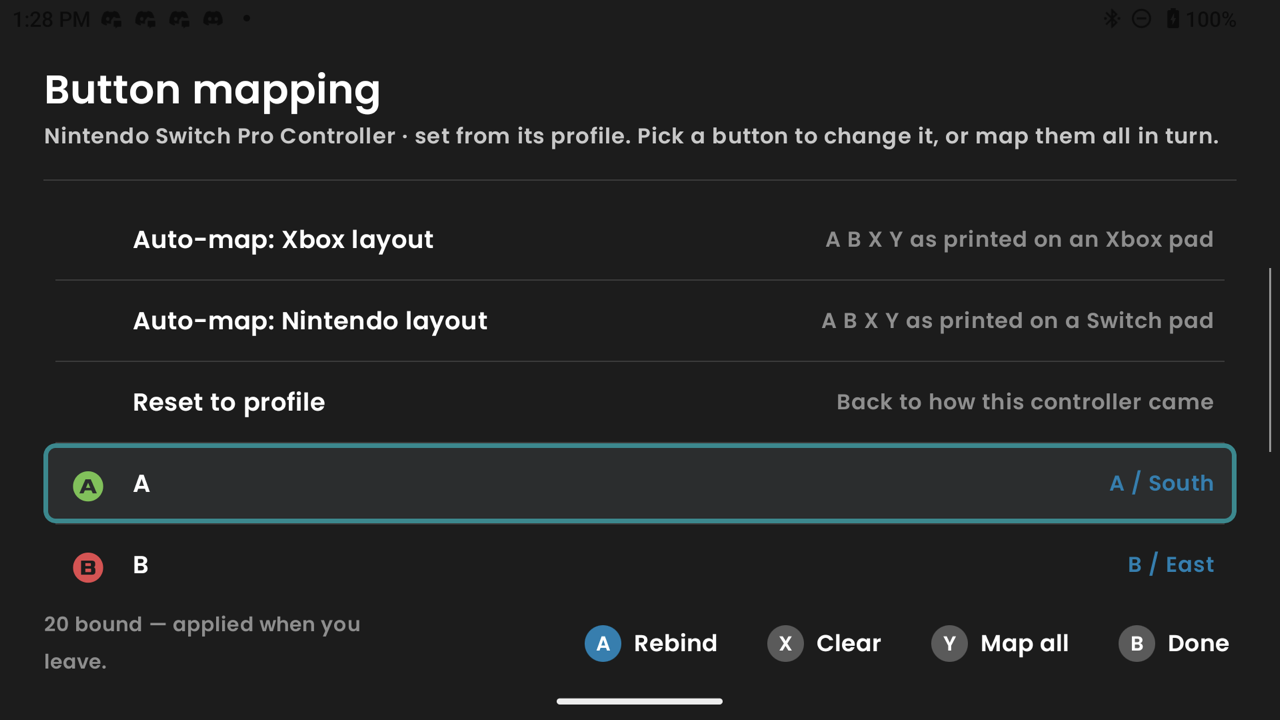
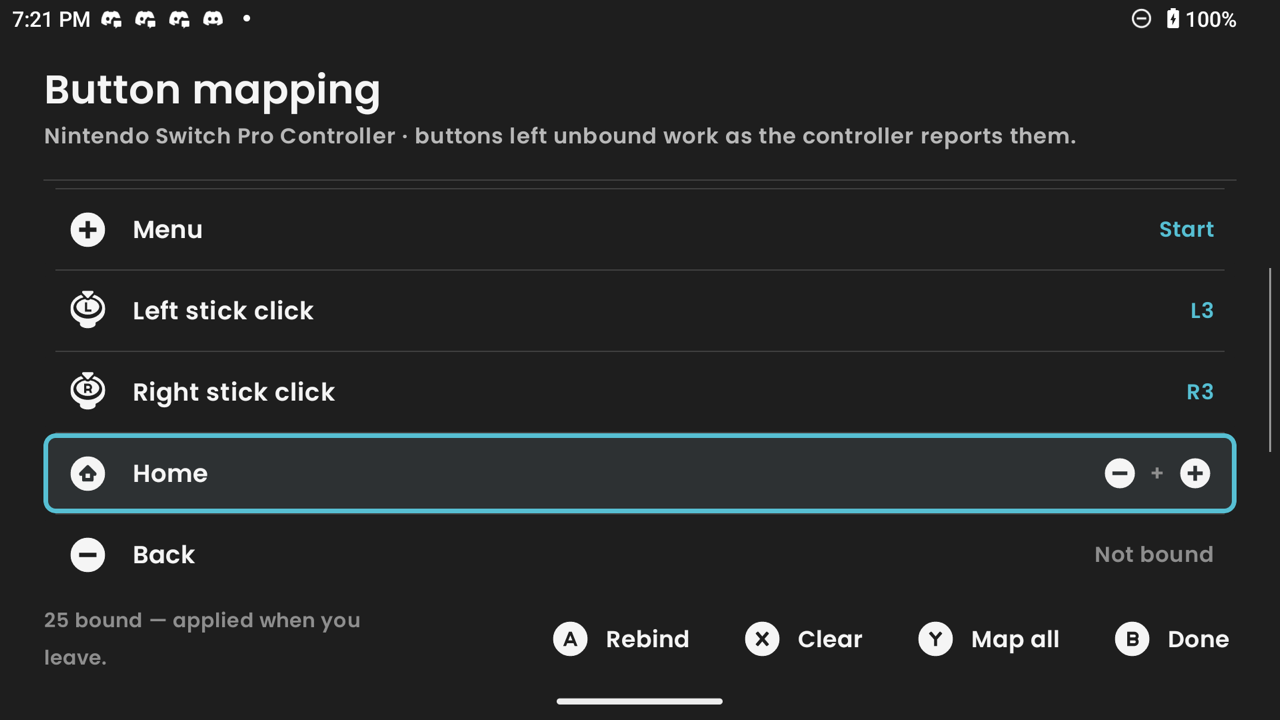
chore(release): v0.4.0
versionCode 6. README: new screenshots (Switch icons, a Home
combination, the chord capture, Light theme), a New in 0.4.0 list,
setup steps using the current menu names, e2e count 81 of 84, Kenney
credit.

diff --git a/README.md b/README.md
@@ -18,15 +18,33 @@ app, retargeted to the AYN Thor and renamed Control Switch.
 
 <img src="control-switch-ui.png" alt="Main screen: the Thor and its battery, the mirrored controller as player 1, and the four menu rows" width="820">
 
-<br><br>
-
-<img src="control-switch-ui-3.png" alt="Change Input Order: press L + R on the controller you would like to use" width="820">
-
-<br><br>
-
-<img src="control-switch-ui-2.png" alt="Button mapping: auto-map presets, then every button with a readable name" width="820">
+<table>
+<tr>
+<td><img src="control-switch-ui-3.png" alt="Change Input Order: press L + R on the controller you would like to use, then A"></td>
+<td><img src="control-switch-ui-2.png" alt="Button mapping in Switch icons, with Home bound to Minus + Plus held together"></td>
+</tr>
+<tr>
+<td align="center">Press <b>L + R</b> to pick player 1</td>
+<td align="center">Bind any button, or a combination</td>
+</tr>
+<tr>
+<td><img src="control-switch-ui-chord.png" alt="Binding a combination: the held buttons appear live as icons"></td>
+<td><img src="control-switch-ui-light.png" alt="Additional Settings in the Light theme"></td>
+</tr>
+<tr>
+<td align="center">Hold buttons together, then let go</td>
+<td align="center">Dark, Super dark or Light</td>
+</tr>
+</table>
 
 </div>
+
+## New in 0.4.0
+
+- **Button combinations** — bind Home, Back or any button to 2–4 controller buttons held together
+- **Themes** — Dark, Super dark and Light, with a teal focus outline you can follow from the couch
+- **Console-matched button prompts** — Xbox icons, or Switch icons once you pick the Nintendo layout
+- **New app icon**
 
 ## What it does
 
@@ -46,10 +64,14 @@ It runs without root, using a privileged service the stock firmware already ship
   that pad is mirrored, whenever it's connected. Identical pads are told apart while connected
 - **Home button that goes Home** — the external pad's Home/Guide button goes to the launcher, or
   Back, or passes through to games. Hold it for **Recents**
-- **Home and Back on any button** — bind either to a pad button in the mapping editor
+- **Home and Back on any button** — bind either to a pad button, or to a combination, in the
+  mapping editor
+- **Button combinations** — any button, Home and Back included, can be bound to 2–4 buttons held
+  together. Hold them, let go, done; the held buttons show as icons while you do it. When a
+  combination fires, its buttons don't also reach the game
 - **Select + Start** — hold it (3s) to close the current app
 - **Hides the external pad** while mirroring, so games see one controller instead of a phantom player 2
-- **Guided button mapping** — the app asks for each button in turn and you press it; or pick
+- **Guided button mapping** — press a button for each row, or let **Map all** walk the list; or pick
   **Nintendo** or **Xbox** layout to map in one go. Triggers and stick halves can fill button
   slots, and untouched controls keep working. Pads the bundled
   [SDL database](third-party/gamecontrollerdb/NOTICE.md) knows arrive already mapped, using the
@@ -58,11 +80,16 @@ It runs without root, using a privileged service the stock firmware already ship
 - **Nintendo layout aware** — swaps A/B and X/Y when the built-in pad is in its Nintendo profile
 - **Controller-first UI** — Switch-style screens with a button-hint bar; set it up without touching
   the screen
+- **Themes** — Dark, Super dark or Light, in Additional Settings
+- **Button prompts that match your pad** — Xbox Series icons by default, Nintendo Switch 2 icons
+  once you apply the Nintendo layout
 - **Add to home screen** — for game frontends like Cocoon Shell that hide the Android app list
 - **~0.04 ms of added latency** (median) — a fraction of one 60Hz frame
   ([measured](docs/TECHNICAL.md#latency); re-measured on a Thor, see [Building](#building))
 
 ## Install
+
+Updating from Control Switch 0.3.0? Just install over it; settings and mappings carry over.
 
 Coming from Docking Enhancer v0.2.0? Uninstall it first. The app id changed (now
 `com.controlswitch`), so the new version installs as a separate app instead of upgrading, and two
@@ -71,12 +98,11 @@ copies would fight over the controller. Settings don't carry over.
 1. Install the APK from this fork's [Releases](https://github.com/CardinalBird/docking-enhancer-Thor/releases)
    (allow "unknown sources" if prompted), or build it yourself — see [Building](#building).
    Upstream's releases don't include the Thor changes.
-2. Open it once. Check that the built-in controller ("Odin Controller" on the Thor) shows on the
-   left — tap it to fix it if not — then turn on **Automatic Mirror**, choose **Only when docked** or **Always when a controller is
-   connected**, and allow notifications.
+2. Open it once and allow notifications. Under **Additional Settings → Allow mirroring**, choose
+   **Only when docked** or **Always** (whenever a controller is connected).
 3. Pair a controller (and dock, if you chose docked only). It takes over on its own.
-4. Optional: with more than one pad, open **Player 1 controller** and press **L + R** on yours.
-   On a frontend launcher, use **Add to home screen** to pin the app.
+4. Optional: with more than one pad, open **Change Input Order** and press **L + R** on yours,
+   then **A**. On a frontend launcher, use **Add to home screen** to pin the app.
 
 ## Supported devices
 
@@ -106,7 +132,8 @@ What's different from the Odin, all found on a real device:
   Controller doesn't expose its Bluetooth address to the system.
 - **Recents** opens when Home is released after a long hold, not at the moment the hold counts.
 
-Tested with a Nintendo Switch Pro Controller over Bluetooth. Not yet tested: a real HDMI dock.
+Tested with a Nintendo Switch Pro Controller and an 8BitDo Ultimate 2 (Switch mode) over
+Bluetooth. Not yet tested: a real HDMI dock.
 
 ## How it works
 
@@ -149,7 +176,7 @@ adb shell sh /data/local/tmp/latency.sh 300
 
 The Thor has no root shell, so the three assertions that unlink device nodes directly fail there by
 design; the app itself does that step through `PServerBinder`. On a Thor the rest of the suite
-passes (46 of 49), and the latency run gives a median of ~0.04 ms added (65 µs mirrored against
+passes (81 of 84), and the latency run gives a median of ~0.04 ms added (65 µs mirrored against
 22 µs without the daemon). Its slowest 5% are higher (~0.4 ms) because the test daemon runs at
 normal priority; the app's runs at high priority.
 
@@ -160,6 +187,7 @@ Ezequiel-CE, which did the hard part: the daemon, the no-root plumbing and the m
 
 The no-root PServer technique comes from [**ClusterTune**](https://github.com/AurelioB/ClusterTune),
 and the `PServerBinder` access code is adapted from [**PULSE**](https://github.com/keiretrogaming/pulse).
+Button prompts are [Kenney Input Prompts](https://kenney.nl/assets/input-prompts) (CC0).
 Full third-party notices in [NOTICE.md](NOTICE.md).
 
 Built with heavy help from an AI coding assistant (Anthropic's Claude), always directed and reviewed
